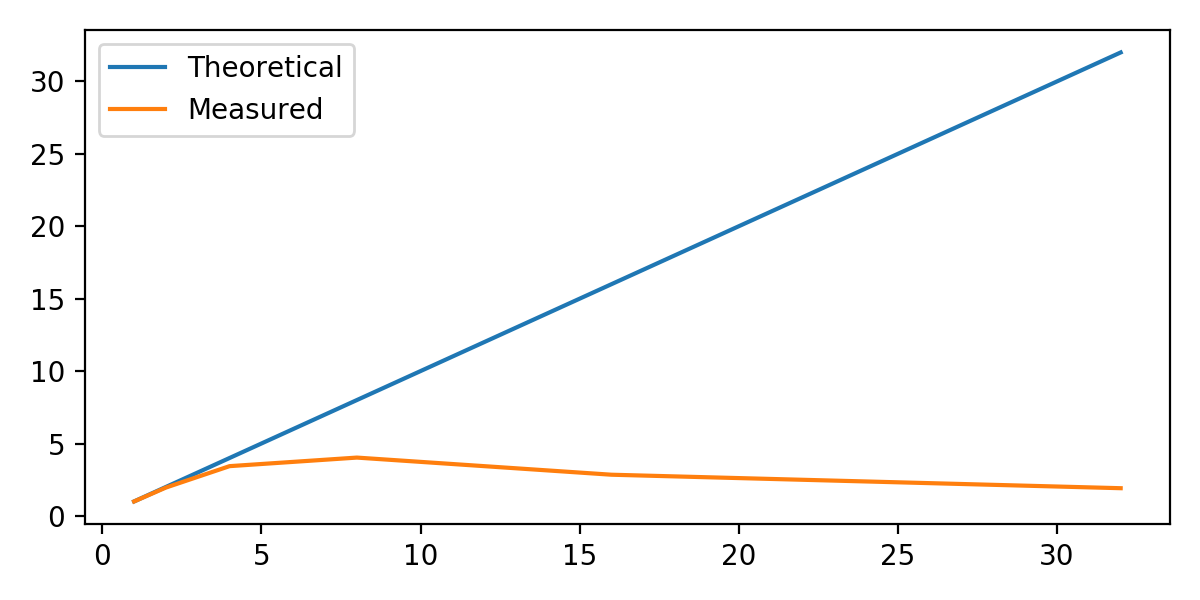
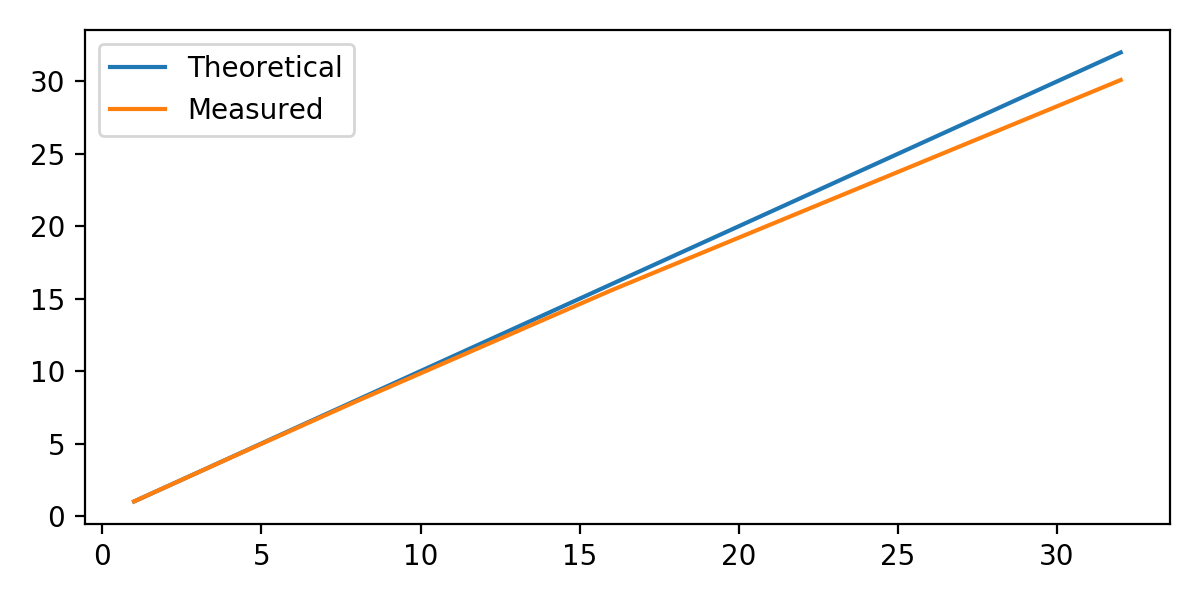
better result

diff --git a/problem-2-2.py b/problem-2-2.py
@@ -25,10 +25,10 @@ def compute_pi(args):
     start1 = time.time()
     random.seed(1)
     n = int(args.steps / args.workers)
+    time_parallel = time.time()
     p = multiprocessing.Pool(args.workers)
     end1 = time.time()
     t1 = end1 - start1
-    time_parallel = time.time()
     s = p.map(sample_pi, [n] * args.workers)
     time_parallel = time.time() - time_parallel
     start2 = time.time()
@@ -55,7 +55,7 @@ if __name__ == "__main__":
                             type=int,
                             help='Number of parallel processes')
         parser.add_argument('--steps', '-s',
-                            default='1000000000',
+                            default='10000000',
                             type=int,
                             help='Number of steps in the Monte Carlo simulation')
         args = parser.parse_args()
